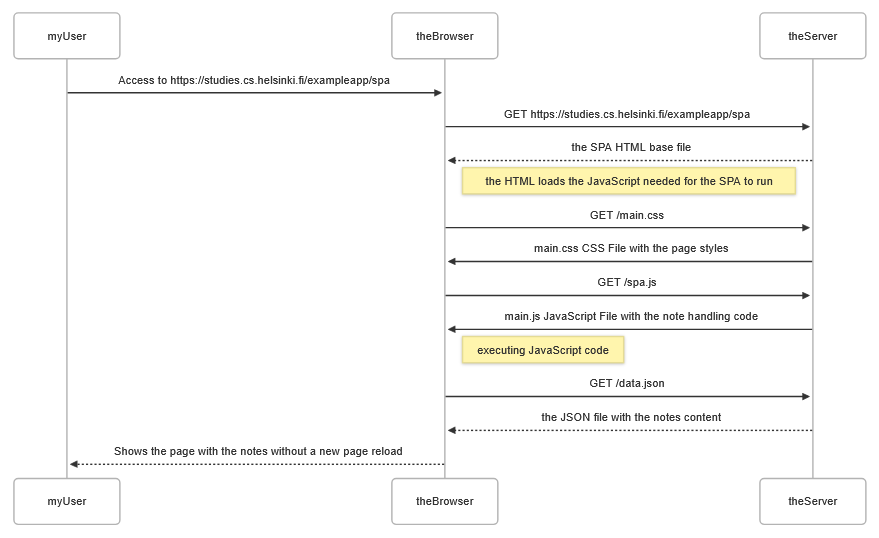
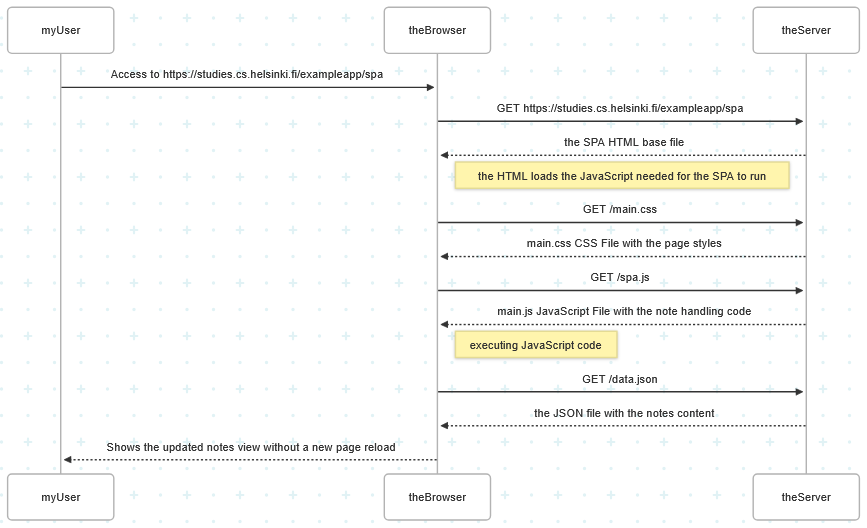
MD file updated + new image

Changed region(s): [[0.0, 0.0, 0.9965, 1.0], [0.8408, 0.0303, 0.872, 0.0909]]

diff --git a/exercise05.md b/exercise05.md
@@ -13,17 +13,17 @@ sequenceDiagram
     Note right of theBrowser: the HTML loads the JavaScript needed for the SPA to run
 
     theBrowser->>theServer: GET /main.css
-    theServer->>theBrowser: main.css CSS File with the page styles
+    theServer-->>theBrowser: main.css CSS File with the page styles
 
     theBrowser->>theServer: GET /spa.js
-    theServer->>theBrowser: main.js JavaScript File with the note handling code
+    theServer-->>theBrowser: main.js JavaScript File with the note handling code
 
     Note right of theBrowser: executing JavaScript code
 
     theBrowser->>theServer: GET /data.json
     theServer-->>theBrowser: the JSON file with the notes content
 
-    theBrowser-->>myUser: Shows the page with the notes without a new page reload
+    theBrowser-->>myUser: Shows the updated notes view without a new page reload
 ```
 
 ![./assets/0.5.PNG](./assets/0.5.PNG)
